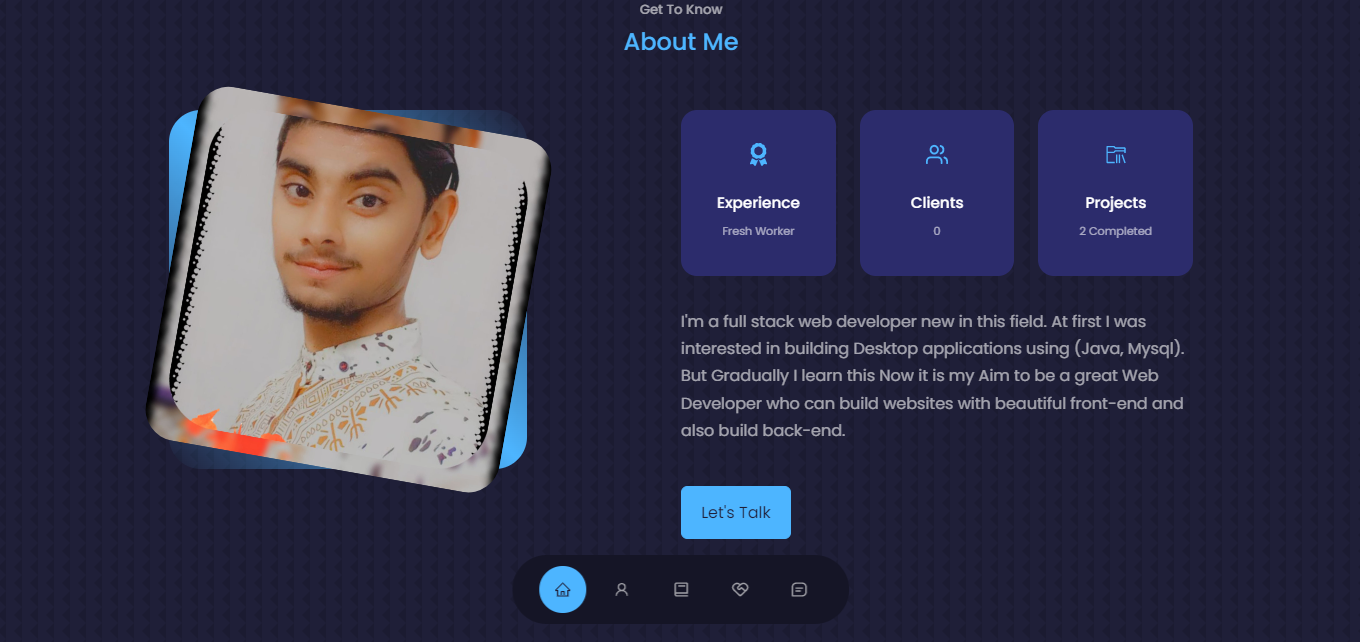
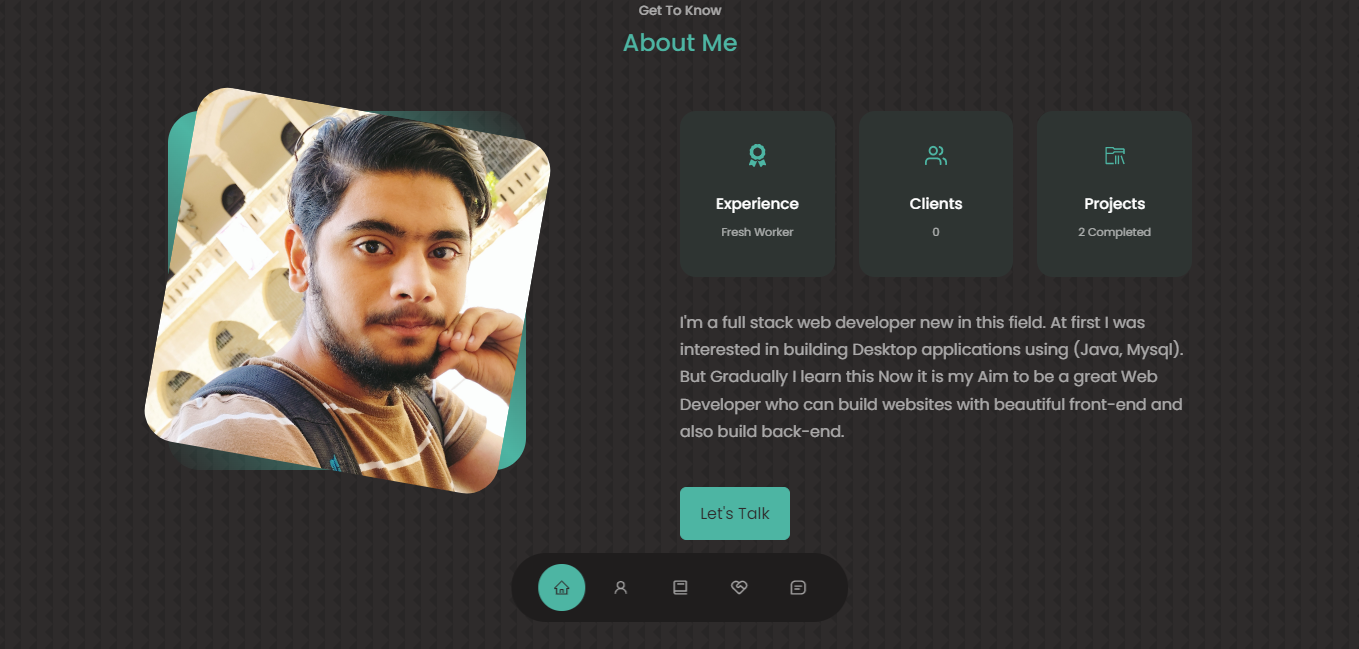
Change pics and colors in website.

diff --git a/src/index.css b/src/index.css
@@ -11,10 +11,10 @@
 }
 
 :root {
-  --color-bg: #1f1f38;
-  --color-bg-variant: #2c2c6c;
-  --color-primary: #4db5ff;
-  --color-primary-variant: rgba(77, 181, 255, 0.4);
+  --color-bg: #2e2b2b;
+  --color-bg-variant: #2e3432;
+  --color-primary: #4DB5A3;
+  --color-primary-variant: rgba(77, 181, 163, 0.4);
   --color-white: #fff;
   --color-light: rgba(255, 255, 255, 0.6);
 

diff --git a/src/components/About/About.css b/src/components/About/About.css
@@ -14,6 +14,8 @@
 }
 
 .about__me-image {
+    width: 100%;
+    height: 100%;
     border-radius: 2rem;
     overflow: hidden;
     transform: rotate(10deg);
@@ -46,6 +48,7 @@
 }
 
 .about__icon {
+    height: auto;
     color: var(--color-primary);
     font-size: 1.4rem;
     margin-bottom: 1rem;
